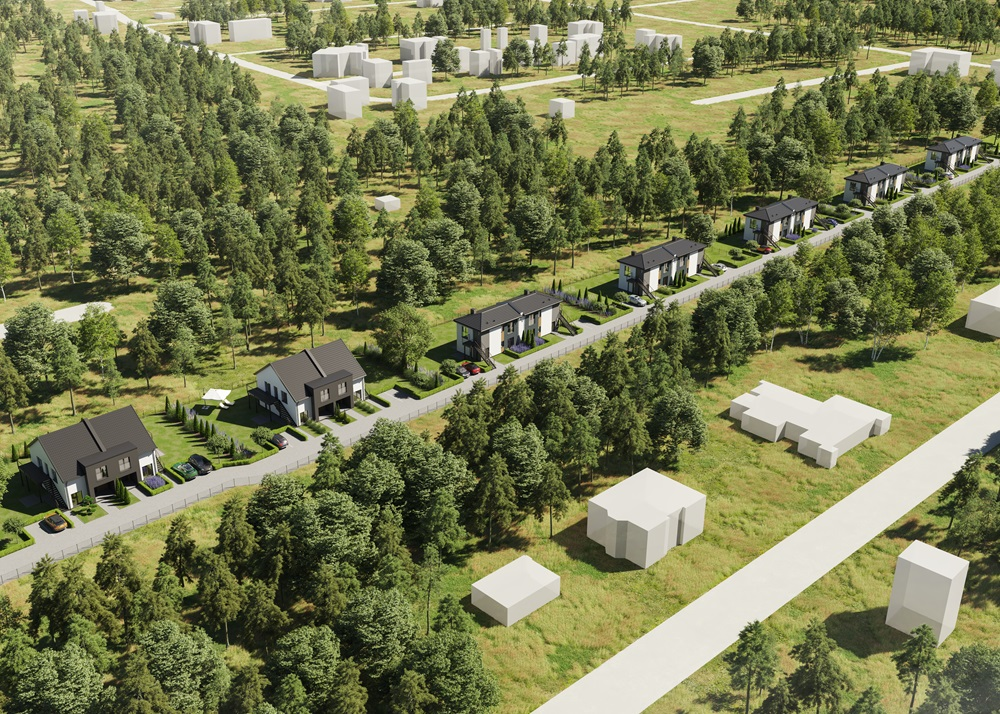
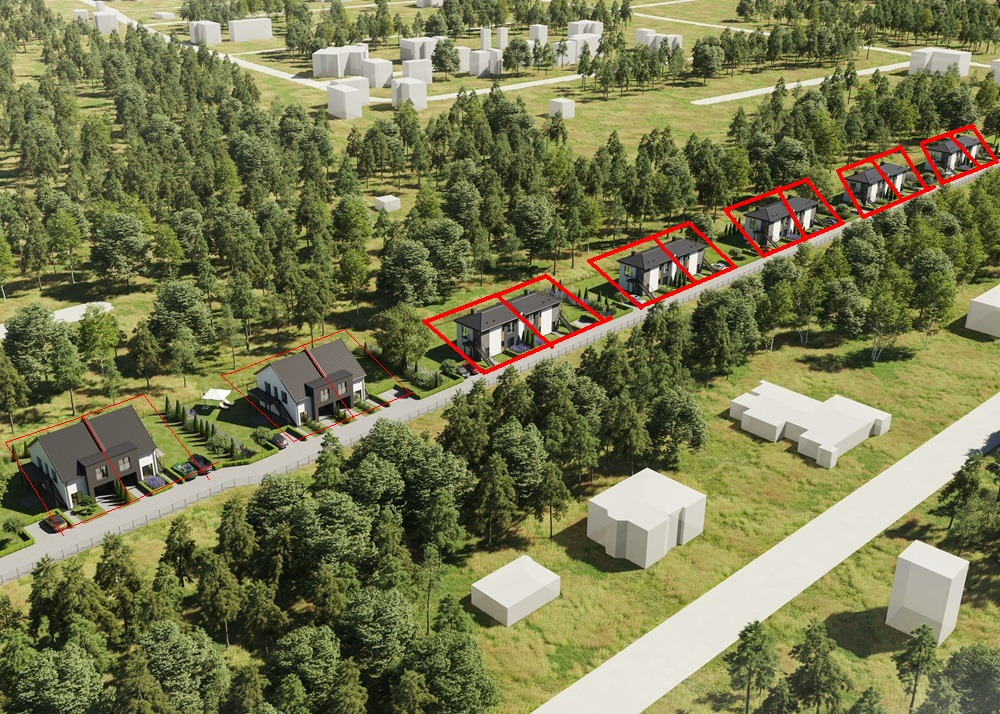
x

diff --git a/index.html b/index.html
@@ -214,7 +214,9 @@
         <svg viewBox="0 0 2000 1429">
             <image id="svg0" xlink:href="img/rzut_osiedla.jpg" width="2000" height="1429"></image>
 
-            <polygon id="house3" class="place placeFree" onClick="selectHouse('3')" points="205 520, 400 325, 1260 530, 1260 785">52;120;399 000;free</polygon>
+            <polygon id="house1" class="place placeFree" onClick="selectHouse('1')" points="0 900, 200 850, 223 522, 69 587">52;120;399 000;free</polygon>
+            <polygon id="house2" class="place placeFree" onClick="selectHouse('1')" points="454 2780, 363 2316, 1260 530, 1260 785">52;120;399 000;free</polygon>
+<!--            <polygon id="house3" class="place placeFree" onClick="selectHouse('3')" points="205 520, 400 325, 1260 530, 1260 785">52;120;399 000;free</polygon>-->
 
 <!--            <foreignobject id="HOUSE_DESCR_FOREIGNOBJECT" class="node" x="100" y="100" width="500" height="300">-->
 <!--                <div id="HOUSE_DESCR">-->
@@ -1252,7 +1254,7 @@
 <script src="js/contact_me.js"></script>
 
 <script>
-    // var pt = document.getElementById("svgHouses").createSVGPoint();  // Created once for document
+    var pt = document.getElementById("svg0").createSVGPoint();  // Created once for document
 
     function alert_coords(evt) {
         pt.x = evt.clientX;

diff --git a/js/agency-v0010.js b/js/agency-v0010.js
@@ -147,10 +147,24 @@ $( document ).ready(function() {
    
 $("#svg0").click(function(e){
     var elm = $(this);
-    var xPos = e.pageX - elm.offset().left;
-    var yPos = e.pageY - elm.offset().top;
+//    var xPos = e.pageX - elm.offset().left;
+//    var yPos = e.pageY - elm.offset().top;
+//
+//    console.log(Math.round(2*xPos), Math.round(2*yPos));
 
-    console.log(Math.round(2*xPos), Math.round(2*yPos));
+
+//            pt.x = e.clientX;
+//            pt.y = e.clientY;
+//
+//            // The cursor point, translated into svg coordinates
+//            var cursorpt = pt.matrixTransform(svg.getScreenCTM().inverse());
+//            console.log("(" + cursorpt.x + ", " + cursorpt.y + ")");
+console.log(e)
+console.log(e.offsetX + " " + e.offsetY)
+console.log(e.pageX + " " + e.pageY)
+console.log(Math.round(e.pageX - e.offsetX) + " " + Math.round(e.pageY - e.offsetY))
+console.log(Math.round(e.screenX) + " " + Math.round(e.screenY))
+console.log(elm.offset().left);
 });
 
    $('#ikonaStandardy').click(toggleInteriorContent)
